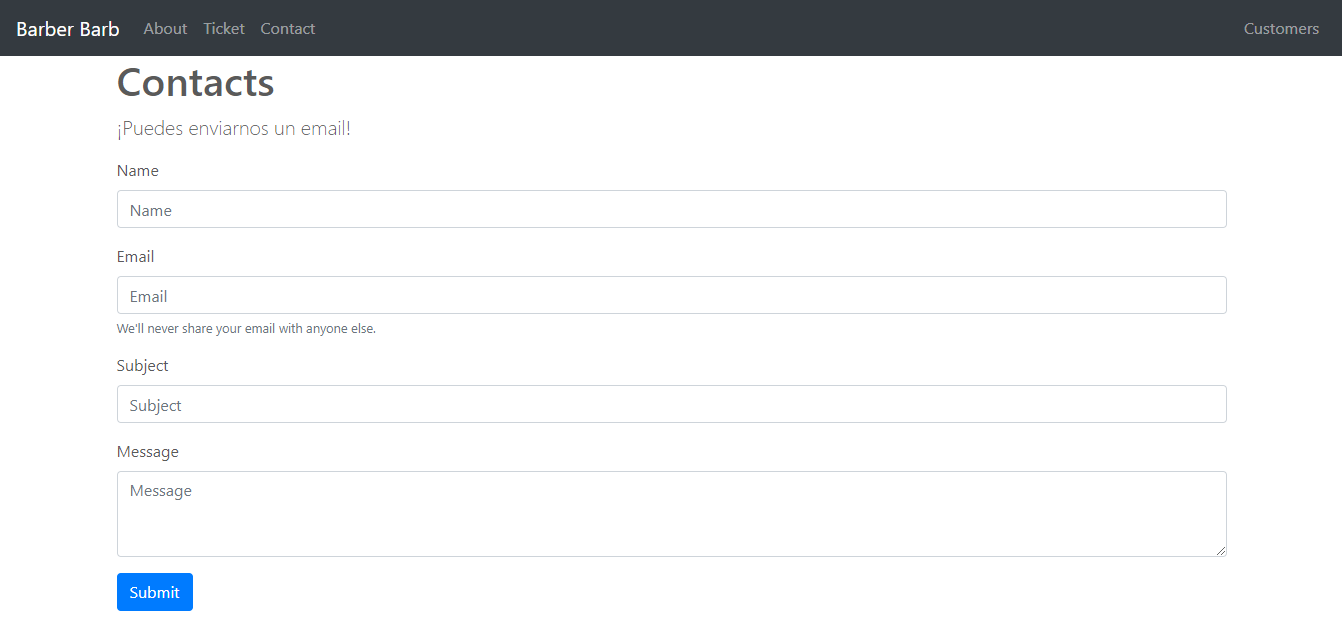
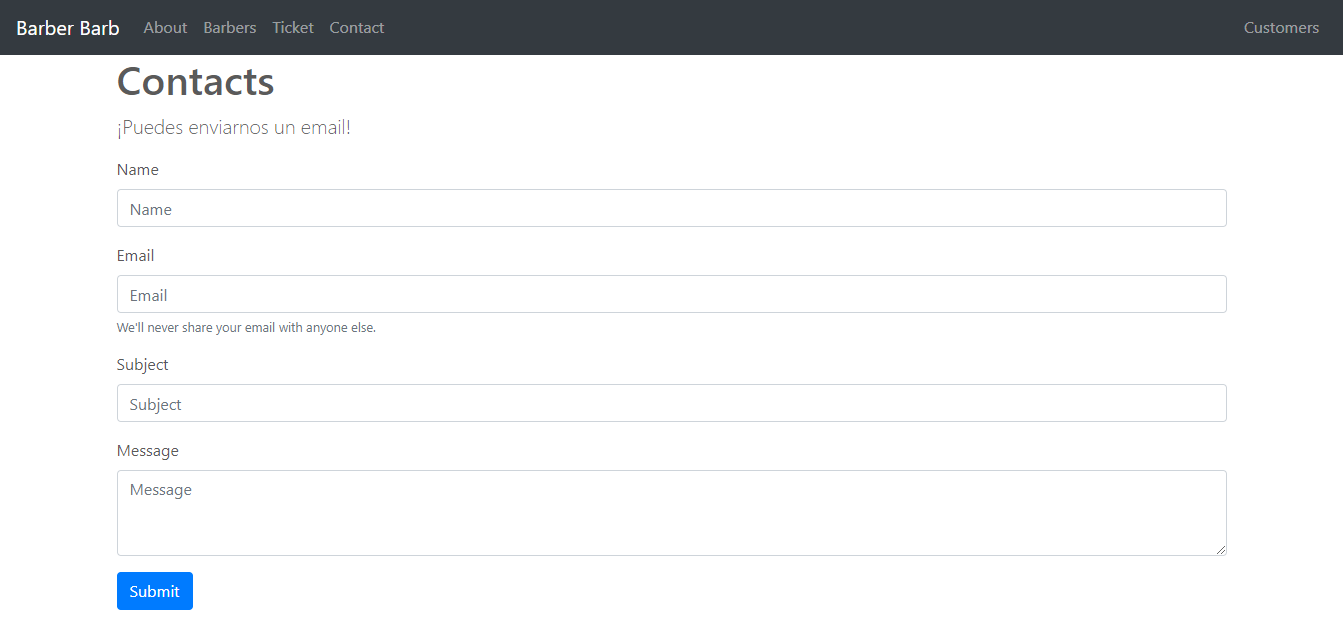
Update screenshots

diff --git a/README.md b/README.md
@@ -25,6 +25,8 @@ Eres libre y tienes derecho de hacer todo lo que quieres.
 
 #### Pantallas:
 
+![Lista de peluqueros](screenshots/barbers_list.png "Lista de peluqueros")
+![Página del peluquero](screenshots/barber_page.png "Página de peluquero")
 ![Formulario de cita](screenshots/ticket_form.png "Formulario de cita")
-![Lista de citas](screenshots/customers_list.png "Lista de citas")
 ![Formulario de contacto](screenshots/contact_form.png "Formulario de contacto")
+![Lista de citas](screenshots/customers_list.png "Lista de citas")
